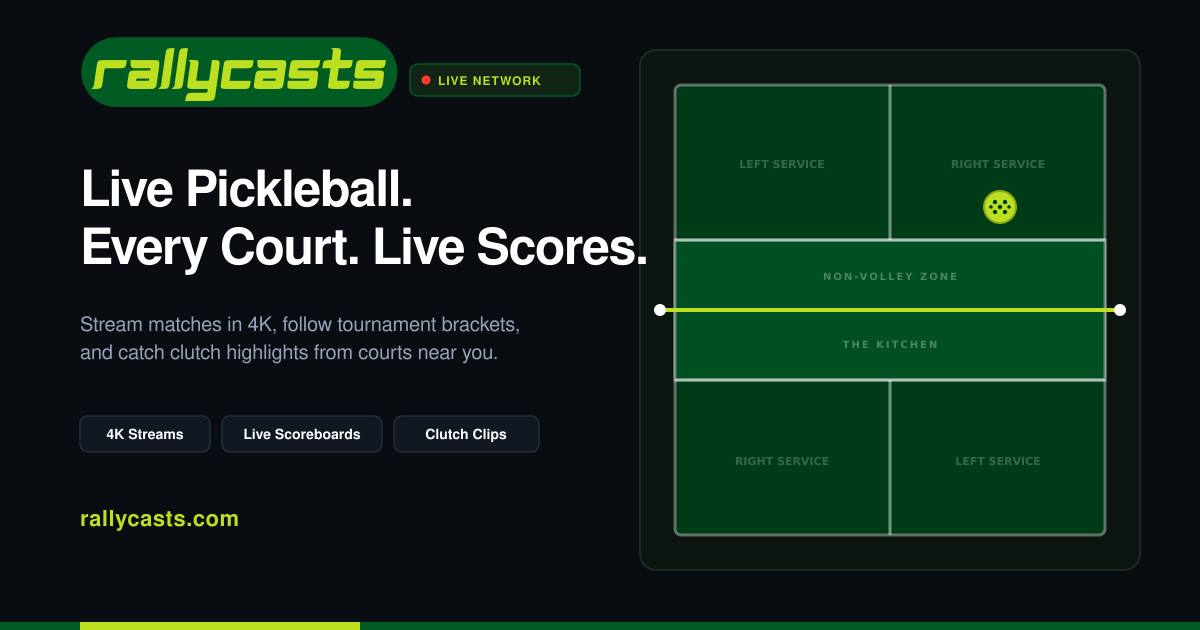
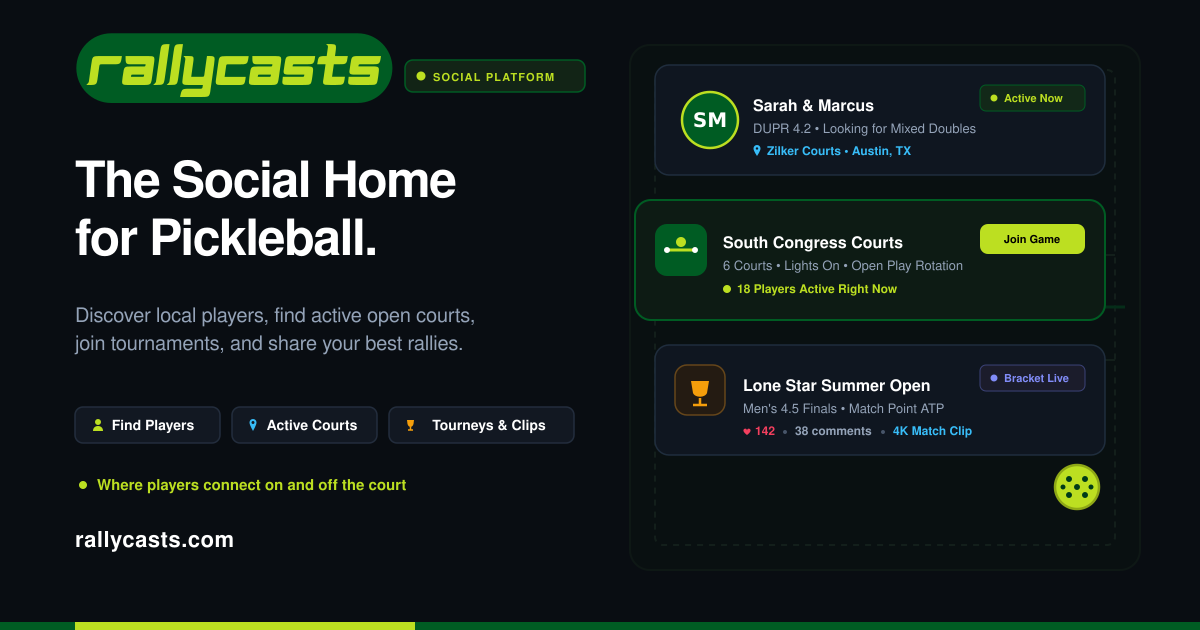
feat(marketing): redesign OG social card and metadata for social pickleball platform (#150)
- Redesign OG social card to highlight player matchmaking, active courts/open play, tournaments, and social highlights
- Replace raw emojis with crisp SVG vector icons to eliminate missing glyph boxes
- Update HTML title, description, OG/Twitter meta tags, and schema.org JSON-LD in apps/web/src/routes/__root.tsx
- Add .agents/product-marketing.md context documentation
- Ensure all canonical URLs resolve to live domain rallycasts.com

Closes #149

diff --git a/apps/web/src/routes/__root.tsx b/apps/web/src/routes/__root.tsx
@@ -62,21 +62,21 @@ export const Route = createRootRouteWithContext<RouterAppContext>()({
         name: "color-scheme",
       },
       {
-        title: "RallyCasts — Live Pickleball Streaming & Highlights",
+        title: "RallyCasts — The Social Home for Pickleball",
       },
       {
         content:
-          "Stream live pickleball matches in 4K, follow real-time scoreboards, track tournament brackets, and catch clutch highlights from courts near you.",
+          "Connect with local pickleball players, find active open play courts, track tournament brackets, and share match highlights with your community.",
         name: "description",
       },
       // Open Graph
       {
-        content: "RallyCasts — Live Pickleball Streaming & Highlights",
+        content: "RallyCasts — The Social Home for Pickleball",
         property: "og:title",
       },
       {
         content:
-          "Stream live pickleball from any court. 4K broadcasts, live scoreboards, tournament brackets, and clutch highlights.",
+          "Discover local players, find active open courts, join tournaments, and share your best rallies with the pickleball community.",
         property: "og:description",
       },
       {
@@ -112,7 +112,8 @@ export const Route = createRootRouteWithContext<RouterAppContext>()({
         property: "og:image:height",
       },
       {
-        content: "RallyCasts — Live Pickleball. Every Court. Live Scores.",
+        content:
+          "RallyCasts — The Social Home for Pickleball. Discover players, active courts, tournaments, and match highlights.",
         property: "og:image:alt",
       },
       // Twitter Card
@@ -121,12 +122,12 @@ export const Route = createRootRouteWithContext<RouterAppContext>()({
         name: "twitter:card",
       },
       {
-        content: "RallyCasts — Live Pickleball Streaming & Highlights",
+        content: "RallyCasts — The Social Home for Pickleball",
         name: "twitter:title",
       },
       {
         content:
-          "Stream live pickleball from any court. 4K broadcasts, live scoreboards, tournament brackets, and clutch highlights.",
+          "Discover local players, find active open courts, join tournaments, and share your best rallies with the pickleball community.",
         name: "twitter:description",
       },
       {
@@ -134,7 +135,8 @@ export const Route = createRootRouteWithContext<RouterAppContext>()({
         name: "twitter:image",
       },
       {
-        content: "RallyCasts — Live Pickleball. Every Court. Live Scores.",
+        content:
+          "RallyCasts — The Social Home for Pickleball. Discover players, active courts, tournaments, and match highlights.",
         name: "twitter:image:alt",
       },
     ],
@@ -147,7 +149,7 @@ export const Route = createRootRouteWithContext<RouterAppContext>()({
               "@id": "https://rallycasts.com/#website",
               "@type": "WebSite",
               description:
-                "Live Pickleball Streaming, Real-time Scoreboards, and Highlights",
+                "The social platform for pickleball. Discover local players, find active courts, join tournaments, and share highlights.",
               name: "RallyCasts",
               publisher: {
                 "@id": "https://rallycasts.com/#organization",
@@ -158,7 +160,7 @@ export const Route = createRootRouteWithContext<RouterAppContext>()({
               "@id": "https://rallycasts.com/#organization",
               "@type": "SportsOrganization",
               description:
-                "Community and broadcast network for live pickleball streaming and tournament coverage.",
+                "The social platform and community for pickleball players, active courts, tournaments, and match highlights.",
               image: "https://rallycasts.com/og-image.png",
               logo: "https://rallycasts.com/rallycasts-icon.png",
               name: "RallyCasts",

diff --git a/.agents/product-marketing.md b/.agents/product-marketing.md
@@ -1,0 +1,45 @@
+# Product Marketing Context
+
+*Last updated: 2026-10-13*
+
+## Product Overview
+**One-liner:** The social pickleball platform to find players, discover active courts, compete in tournaments, and share match highlights.
+**What it does:** RallyCasts is the all-in-one community home for pickleball. Players discover partners and opponents at their skill level, check real-time court activity and open play sessions, enter tournaments with live brackets, message friends, challenge rivals, and watch or share clutch match clips.
+**Product category:** Social sports platform & pickleball community network
+**Product type:** Consumer web & mobile social platform with creator/caster marketplace
+**Business model:** Free player social network, premium Pro player subscriptions, tournament registration fees, and creator caster payouts.
+
+## Target Audience
+**Target audience:** Active pickleball players (2.5 recreational to 5.0+ competitive), club members, tournament competitors, and local organizers.
+**Primary use case:** Connecting with players, finding where games are running right now, tracking matches, and enjoying the social culture of pickleball daily.
+**Jobs to be done:**
+- Find players and doubles partners at my skill level nearby
+- See which local park or club courts are active for open play
+- Follow and register for tournaments, brackets, and scheduled matches
+- Share and watch hype rallies, clutch shots, and match recordings
+- Chat, message, and coordinate games with my pickleball crew
+
+## Problems & Pain Points
+**Core problem:** Pickleball is the fastest growing sport, but the community is fragmented across random group chats, clunky Facebook groups, outdated rating sites, and word-of-mouth.
+**Why alternatives fall short:**
+- Group chats get messy and don't help you find new players or courts when traveling or looking for fresh games.
+- Traditional tournament sites are clunky, desktop-only spreadsheets with zero social life or video highlights.
+- No single platform combines the social connection (friends, chat, challenges) with live court discovery and video.
+**Emotional tension:** The frustration of showing up to empty courts, struggling to find a fourth for doubles, or hitting an insane ATP/erne that nobody recorded.
+
+## Key Differentiators
+- **Vibrant Social Core**: Real player profiles (DUPR/skill levels, home courts), direct messaging, friend connections, and match challenges.
+- **Court & Park Discovery**: Real-time venue activity, player presence, and geofenced open play tracking.
+- **Tournaments & Real-Time Brackets**: Modern mobile-first event registration, check-ins, live scoring, and brackets.
+- **Social Video & Highlights**: Instant clip generation, community feeds, and court-side casters capturing memories.
+
+## Brand Voice
+**Tone:** Welcoming, energetic, athletic, friendly, communal.
+**Style:** Conversational, direct, authentic, inspiring.
+**Personality:** The friendly player at the court who welcomes everyone into the rotation and hypes up your best shot.
+
+## Core Pillars
+1. **Connect & Play**: Discover players, make friends, chat, and challenge each other.
+2. **Active Courts**: See where open play is buzzing right now.
+3. **Tournaments**: Brackets, schedules, and live match scores.
+4. **Highlights**: Celebrate epic rallies and community clips.
